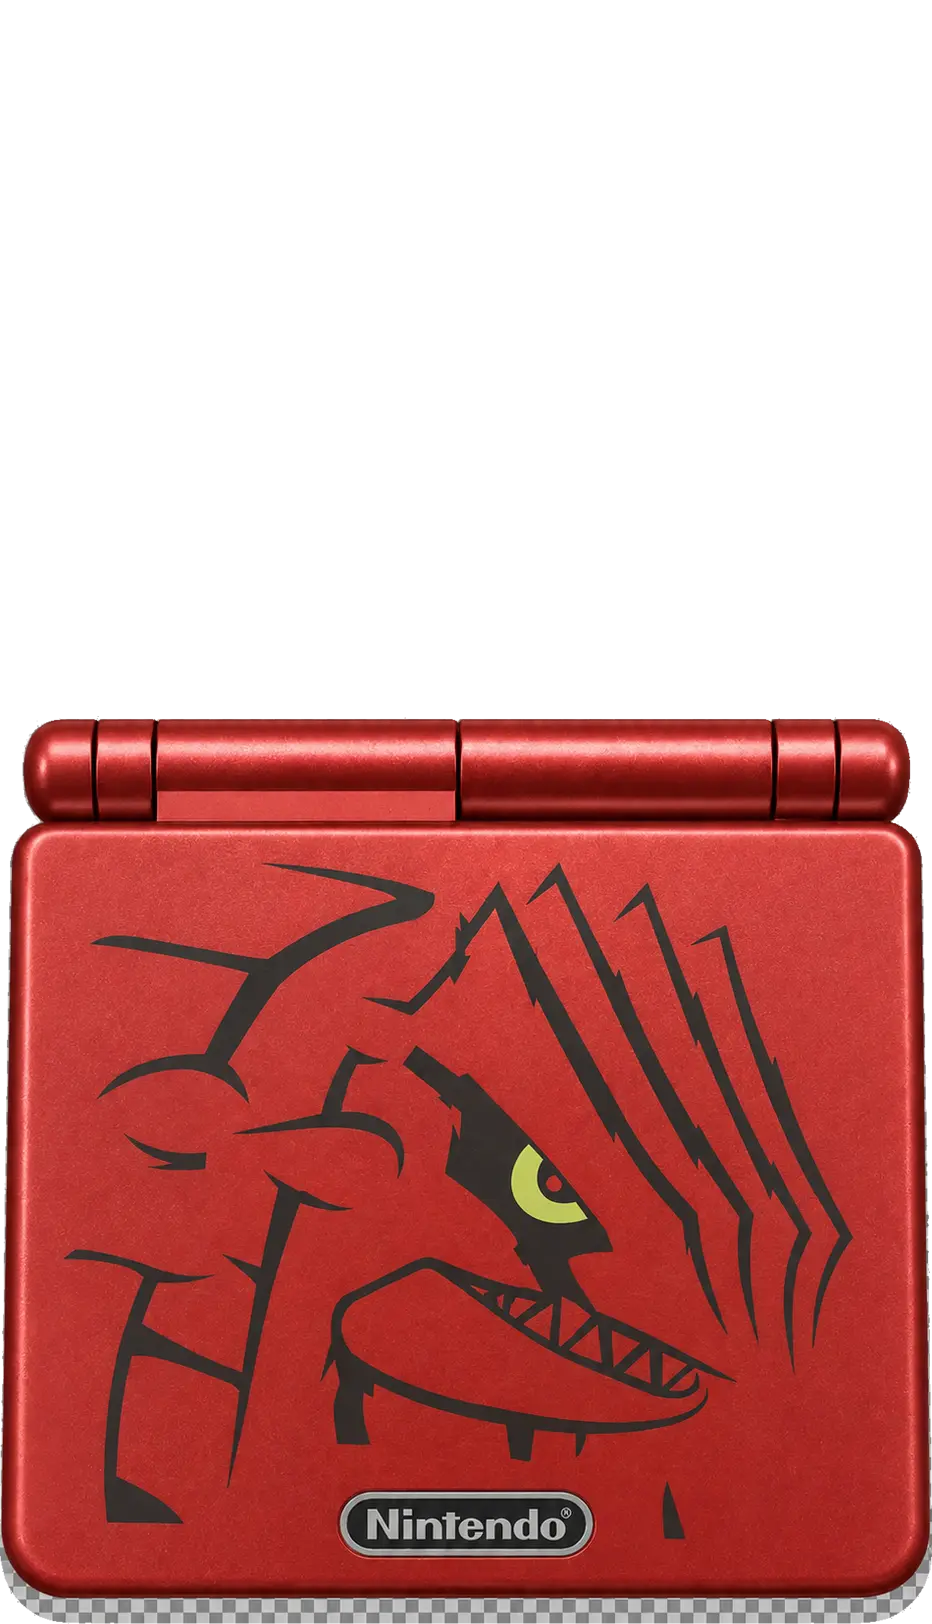
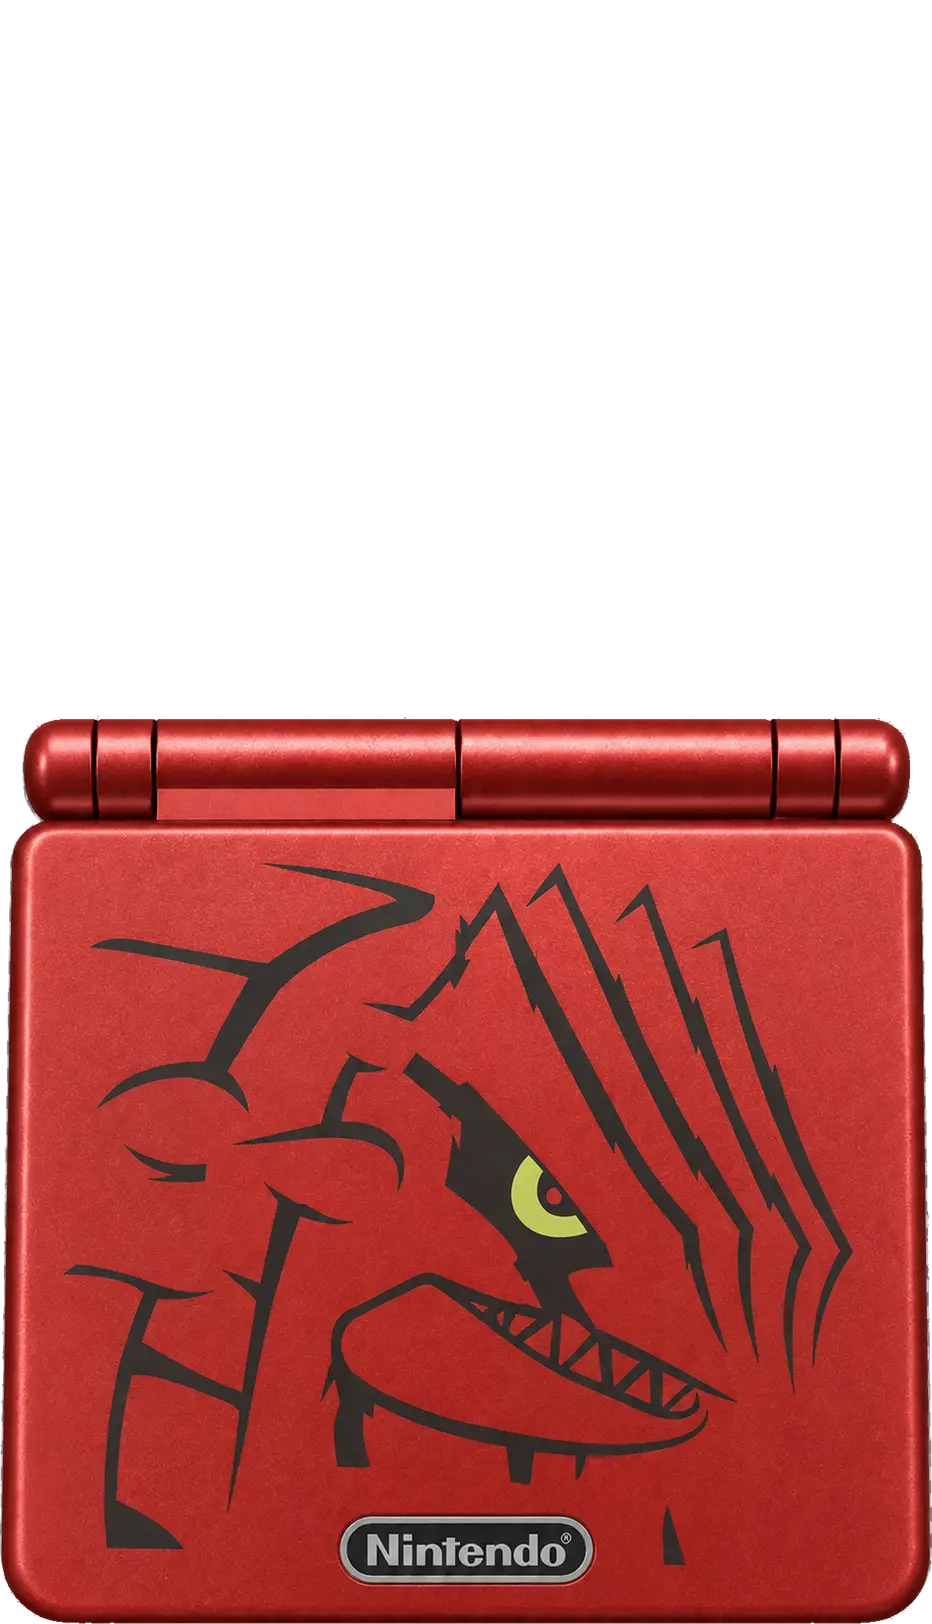
Align legendary SP lids to transition geometry

diff --git a/console-transitions.js b/console-transitions.js
@@ -7,9 +7,9 @@
     "cream-burgundy": Object.freeze({ shell: "assets/gba-sp-cream-burgundy.png?v=2", lid: "assets/sp-lids/cream-burgundy.webp?v=1" }),
     "gold-zelda": Object.freeze({ shell: "assets/gba-sp-gold-zelda.png?v=1", lid: "assets/sp-lids/gold-zelda.webp?v=1" }),
     "yellow-character": Object.freeze({ shell: "assets/gba-sp-yellow-character.jpg?v=1", lid: "assets/sp-lids/yellow-character.webp?v=1" }),
-    groudon: Object.freeze({ shell: "assets/gba-sp-groudon.webp?v=2", lid: "assets/sp-lids/groudon.webp?v=1" }),
-    kyogre: Object.freeze({ shell: "assets/gba-sp-kyogre.webp?v=2", lid: "assets/sp-lids/kyogre.webp?v=1" }),
-    rayquaza: Object.freeze({ shell: "assets/gba-sp-rayquaza.webp?v=2", lid: "assets/sp-lids/rayquaza.webp?v=1" })
+    groudon: Object.freeze({ shell: "assets/gba-sp-groudon.webp?v=2", lid: "assets/sp-lids/groudon.webp?v=2" }),
+    kyogre: Object.freeze({ shell: "assets/gba-sp-kyogre.webp?v=2", lid: "assets/sp-lids/kyogre.webp?v=2" }),
+    rayquaza: Object.freeze({ shell: "assets/gba-sp-rayquaza.webp?v=2", lid: "assets/sp-lids/rayquaza.webp?v=2" })
   });
 
   let transitioning = false;

diff --git a/index.html b/index.html
@@ -496,7 +496,7 @@
 <script src="GB/binjgb.js"></script>
 <script src="GB/simple.js?v=local-rom-1"></script>
 
-<script src="console-transitions.js?v=legendary-sp-2"></script>
+<script src="console-transitions.js?v=legendary-sp-3"></script>
 <script src="appearance-selector.js?v=legendary-sp-1"></script>
 <script src="EnhancedFeatures.js?v=cartridge-handoff-1"></script>
 <script src="save-capture-v2.js?v=2"></script>
